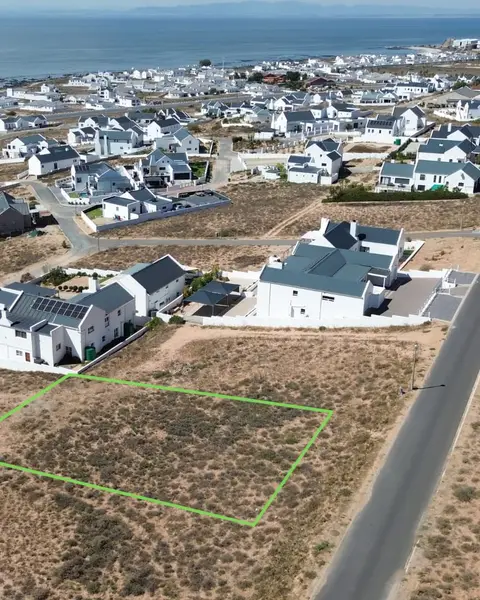
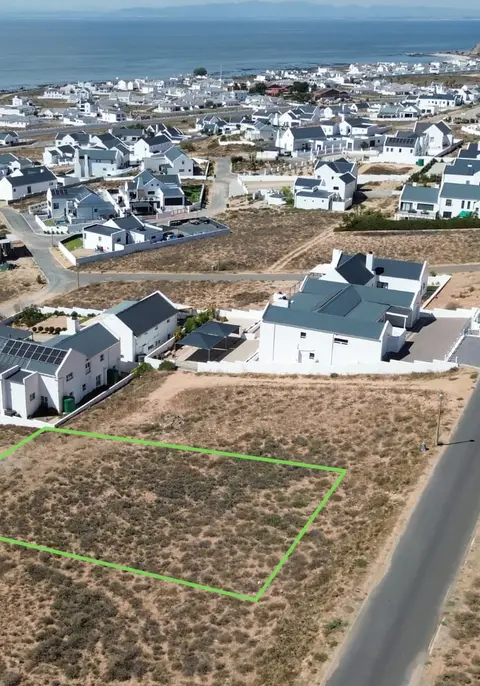
feat(home): fixed 7:10 portrait browse cards with regenerated 7:10 images

diff --git a/client/src/components/DiscoverProperties.tsx b/client/src/components/DiscoverProperties.tsx
@@ -85,10 +85,15 @@ const CHIP_LABEL: Record<ListingType, string> = {
 
 /** Matches the card widths set on the rail items below. */
 const CARD_SIZES =
-  '(min-width: 1280px) 195px, (min-width: 1024px) 210px, (min-width: 768px) 24vw, 42vw';
+  '(min-width: 1280px) 225px, (min-width: 1024px) 215px, (min-width: 768px) 24vw, 152px';
 
+/**
+ * Cards are always 7:10 portrait (owner reference, 2026-11-12: about 210 x 300). Width is set per
+ * breakpoint and the height follows from the ratio, so the shape never changes. Phone: 152 px, two
+ * and a peek. Tablet: three and a peek. Desktop: exactly 3 (1024-1279) or 4 (1280+) whole cards.
+ */
 const CARD_WIDTH_CLASS =
-  'w-[calc((100%-0.75rem)/2.3)] md:w-[calc((100%-2rem)/3.3)] lg:w-[calc((100%-2rem)/3)] xl:w-[calc((100%-3rem)/4)]';
+  'w-[9.5rem] md:w-[calc((100%-2rem)/3.3)] lg:w-[calc((100%-2rem)/3)] xl:w-[calc((100%-3rem)/4)]';
 
 function cityToLocation(city: BrowseCity): LocationNode {
   return {
@@ -530,8 +535,8 @@ export function DiscoverProperties({
 
         <div className="grid grid-cols-1 gap-4 lg:grid-cols-[minmax(15rem,18.5rem)_minmax(0,1fr)] lg:gap-6">
           {/* Accordion column (1024px and up) */}
-          <div className="hidden lg:block">
-            <div className="flex h-full flex-col overflow-hidden rounded-2xl border border-slate-200 bg-white shadow-xl">
+          <div className="relative hidden lg:block">
+            <div className="flex flex-col overflow-y-auto overflow-x-hidden absolute inset-0 rounded-2xl border border-slate-200 bg-white shadow-xl">
               {accordionRows
                 .filter(row => row.enabled)
                 .map(row => (
@@ -580,13 +585,13 @@ export function DiscoverProperties({
             </div>
           </div>
 
-          {/* Category cards: one rail from phone to desktop, same height as the accordion at 1024px+ */}
-          <div className="relative min-w-0 lg:h-full lg:min-h-[17rem]">
+          {/* Category cards: one rail from phone to desktop. The cards set the height (7:10); the accordion stretches to it. */}
+          <div className="relative min-w-0">
             <div
               ref={railRef}
               onScroll={updateArrows}
               data-testid="discover-card-rail"
-              className="scrollbar-hide flex snap-x snap-mandatory gap-3 overflow-x-auto overscroll-x-contain scroll-smooth p-1 md:gap-4 lg:h-full"
+              className="scrollbar-hide flex snap-x snap-mandatory gap-3 overflow-x-auto overscroll-x-contain scroll-smooth p-1 md:gap-4"
             >
               {filteredProperties.map(property => {
                 const href = cardHref(property);
@@ -599,7 +604,7 @@ export function DiscoverProperties({
                     href={href}
                     onClick={event => onCardClick(event, property, href)}
                     data-card={`${property.listingType}:${property.type}`}
-                    className={`group relative block aspect-[4/5] shrink-0 snap-start overflow-hidden rounded-xl bg-slate-800 shadow-sm transition-shadow hover:shadow-lg focus-visible:outline-none focus-visible:ring-2 focus-visible:ring-[#2774AE] focus-visible:ring-offset-2 lg:aspect-auto lg:h-full ${CARD_WIDTH_CLASS}`}
+                    className={`group relative block aspect-[7/10] shrink-0 snap-start overflow-hidden rounded-xl bg-slate-800 shadow-sm transition-shadow hover:shadow-lg focus-visible:outline-none focus-visible:ring-2 focus-visible:ring-[#2774AE] focus-visible:ring-offset-2 ${CARD_WIDTH_CLASS}`}
                   >
                     {hasPhoto && imageName ? (
                       <CategoryImage

diff --git a/client/src/lib/categoryImages.generated.ts b/client/src/lib/categoryImages.generated.ts
@@ -1,11 +1,11 @@
 // Generated by scripts/images/build-category-images.mjs. Do not edit by hand.
 export const CATEGORY_IMAGES: Record<string, { widths: number[]; width: number; height: number }> = {
-  'apartments': { widths: [320, 480], width: 480, height: 600 },
-  'cluster-homes': { widths: [320], width: 320, height: 400 },
-  'farms': { widths: [267], width: 267, height: 334 },
-  'houses': { widths: [320, 480], width: 480, height: 600 },
-  'offices': { widths: [320, 480], width: 480, height: 600 },
-  'plots-and-land': { widths: [320, 480, 720], width: 720, height: 900 },
-  'shops': { widths: [320, 480], width: 480, height: 600 },
-  'townhouses': { widths: [320, 480, 720], width: 720, height: 900 },
+  'apartments': { widths: [320], width: 320, height: 457 },
+  'cluster-homes': { widths: [320], width: 320, height: 457 },
+  'farms': { widths: [233], width: 233, height: 333 },
+  'houses': { widths: [320, 480], width: 480, height: 686 },
+  'offices': { widths: [320, 480], width: 480, height: 686 },
+  'plots-and-land': { widths: [320, 480, 720], width: 720, height: 1029 },
+  'shops': { widths: [320, 480], width: 480, height: 686 },
+  'townhouses': { widths: [320, 480, 720], width: 720, height: 1029 },
 };

diff --git a/client/src/lib/__tests__/categoryImageWidths.test.ts b/client/src/lib/__tests__/categoryImageWidths.test.ts
@@ -10,7 +10,7 @@ describe('category image width selection', () => {
     expect(selectWidths(1920, 1080)).toEqual({
       widths: [320, 480, 720],
       skipped: [],
-      cropWidth: 864,
+      cropWidth: 756,
     });
   });
 
@@ -18,7 +18,7 @@ describe('category image width selection', () => {
     const result = selectWidths(1050, 700);
     expect(result.widths).toEqual([320, 480]);
     expect(result.skipped).toEqual([720]);
-    expect(result.cropWidth).toBe(560);
+    expect(result.cropWidth).toBe(490);
   });
 
   it('never exceeds the original width', () => {
@@ -27,14 +27,15 @@ describe('category image width selection', () => {
 
   it('keeps one output at the crop width when every target is too large', () => {
     expect(selectWidths(598, 334)).toEqual({
-      widths: [267],
+      widths: [233],
       skipped: [320, 480, 720],
-      cropWidth: 267,
+      cropWidth: 233,
     });
   });
 
   it('derives the height from the card ratio', () => {
-    expect(CARD_ASPECT).toBe(0.8);
-    expect(heightForWidth(480)).toBe(600);
+    expect(CARD_ASPECT).toBe(0.7);
+    expect(heightForWidth(480)).toBe(686);
+    expect(heightForWidth(210)).toBe(300);
   });
 });

diff --git a/client/src/components/DiscoverProperties.test.tsx b/client/src/components/DiscoverProperties.test.tsx
@@ -48,6 +48,18 @@ describe('DiscoverProperties', () => {
     expect(container.innerHTML).not.toContain('unsplash');
   });
 
+  it('keeps every card a 7:10 portrait whose image matches that ratio', () => {
+    render(<DiscoverProperties />);
+
+    for (const card of cardsFor('sale')) {
+      expect(card.className).toContain('aspect-[7/10]');
+      expect(card.className).not.toMatch(/aspect-\[4\/5\]|lg:aspect-auto|lg:h-full/);
+      const img = card.querySelector('img');
+      const ratio = Number(img?.getAttribute('width')) / Number(img?.getAttribute('height'));
+      expect(Math.abs(ratio - 0.7)).toBeLessThan(0.005);
+    }
+  });
+
   it('links each sale card to the supported destination for its category', () => {
     render(<DiscoverProperties />);
     const hrefs = Object.fromEntries(

diff --git a/docs/product/homepage/browse-by-category.md b/docs/product/homepage/browse-by-category.md
@@ -29,12 +29,15 @@ With no area chosen, cards open national results. Zero results show the normal "
 
 ## 4. Layout
 
-- Desktop (≥1024 px): the Sale / Rent / Developments list on the left, photo cards on the right, lined up as **one balanced grid** (same top and bottom edges).
-- Below 1024 px: a Sale / Rent / New Developments switch on top, cards in a swipeable row with the next card peeking.
-- Photos: 4:5 portrait, WebP at up to three widths, lazy-loaded, with alt text such as "Townhouses for sale". Never loaded from other websites.
+- **Card shape rule (owner, 2026-11-12): every card is a tall 7:10 portrait at every screen width.** The owner's reference screenshot shows about 210 x 300 px beside the list and called it perfect. An earlier build let the card height follow the accordion, so cards were 4:5 or squarer (224 x 260) between 1280 and 1536 px. Now the card width is set per breakpoint and the height follows from 7:10; the accordion stretches to the cards' height, never the other way round.
+- Desktop (≥1024 px): the Sale / Rent / Developments list on the left, photo cards on the right, same top and bottom edges. 1024-1279 px: list plus 3 whole cards; 1280 px and up: list plus 4 whole cards; arrows page the rest.
+- Tablet (768-1023 px): a Sale / Rent / New Developments switch on top, 7:10 cards in a swipeable row, three and a peek.
+- Phone (below 768 px): switch on top, 7:10 cards 152 px wide in a snap row, two and a peek.
+- Photos: 7:10 portrait crops, WebP at up to three widths, lazy-loaded, with alt text such as "Townhouses for sale". Never loaded from other websites. Crops are made by `pnpm images:categories`; Apartments and Houses use a fixed left crop to keep their subject.
 
 ## 5. History
 
+- **2026-11-12 (card 53):** card shape fixed at 7:10 (section 4); images regenerated at 7:10.
 - Photo cards existed until **2026-11-10, PR #757 (`7d43a4156`)**, which removed them because they were loaded directly from Unsplash's servers.
 - City pills existed until **2026-10-28, PR #693 (`cbff3e7b3`)**.
 - **2026-11-12 (card 45):** restored with the owner's own photos stored in the repository, city pills back, categories changed as above.
